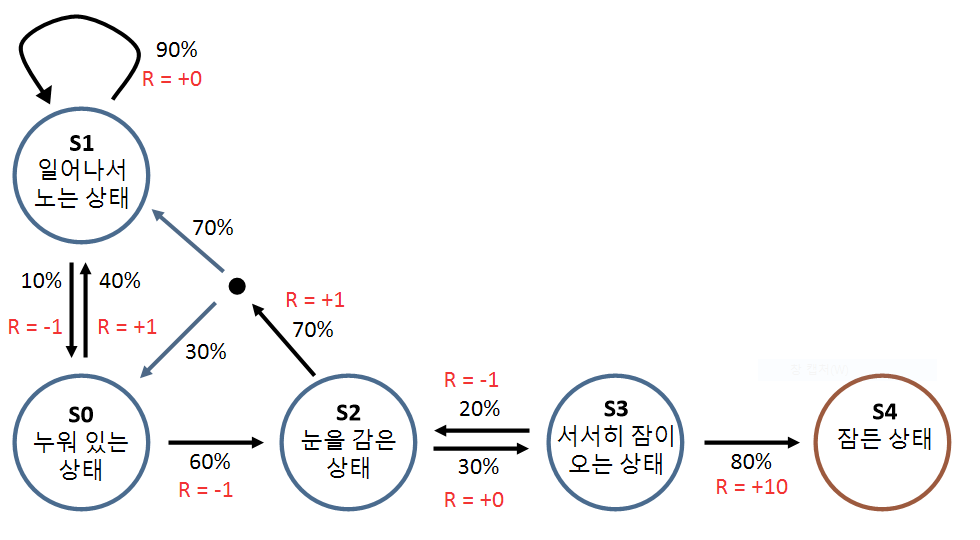
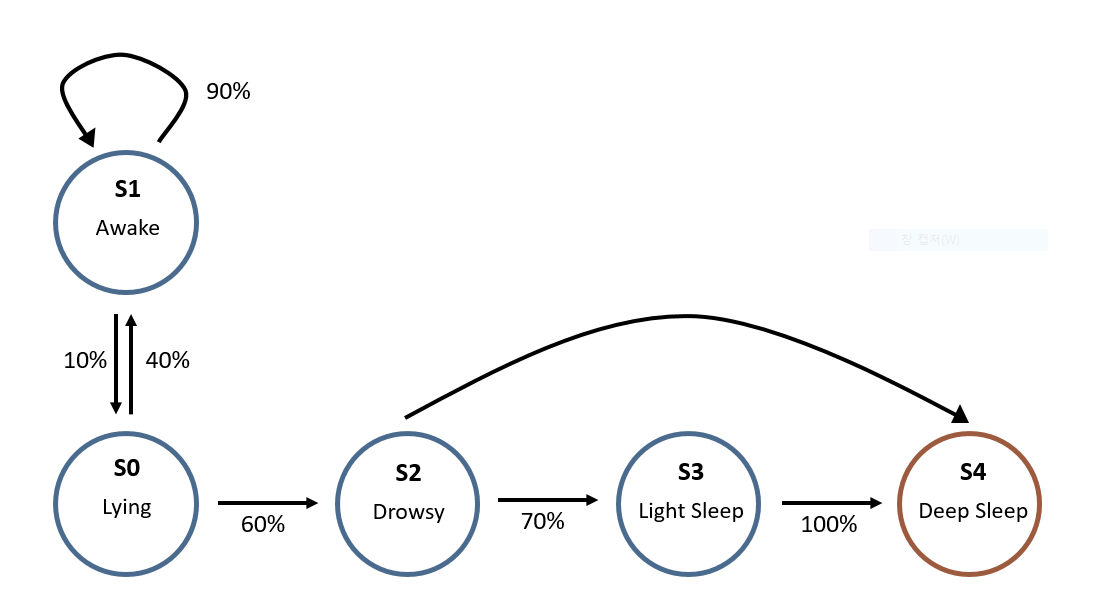
Update: mdp contents

diff --git a/rlboard/play_mdp_action.js b/rlboard/play_mdp_action.js
@@ -1,5 +1,5 @@
 import { animate } from "./game.js";
-import { MDP } from "./mdp.js";
+import { Edge, MDP } from "./mdp.js";
 
 const frame = document.querySelector('#play_mdp_action');
 
@@ -11,27 +11,55 @@ frame.insertBefore(canvas, frame.firstChild);
 const context = canvas.getContext('2d');
 context.width = canvas.width;
 context.height = canvas.height;
+canvas.onclick = (ev) => {
+    let bounds = canvas.getBoundingClientRect();
+    let mouseX = (ev.clientX / bounds.width) * canvas.width - bounds.x;
+    let mouseY = (ev.clientY / bounds.height) * canvas.height - bounds.y;
+    console.log(mouseX, mouseY);
+};
 
 class MDP_Action extends MDP {
+    constructor(context) {
+        super(context);
+
+        this.DUMMY_IDX = 9;
+
+        this.edges = [
+            new Edge(0, 2, 0.6, -1),
+            new Edge(0, 1, 0.4, +1),
+
+            new Edge(1, 0, 0.1, -1),
+            new Edge(1, 1, 0.9, +0),
+
+            new Edge(2, 3, 0.3, +0),
+            new Edge(2, this.DUMMY_IDX, 0.7, +1),  // to dummy node
+
+            new Edge(3, this.END_IDX, 0.8, +10),
+            new Edge(3, 2, 0.2, -1),
+        ];
+
+        this.positions[this.DUMMY_IDX] = [240, 235];
+    }
+
     render() {
         // draw background image
         let img = new Image();
         img.src = "img/mdp/action.png"
-        this.context.drawImage(img, 8, 50);
+        this.context.drawImage(img, 50, 10, this.context.width * 0.9, this.context.height);
 
         // draw title text
         this.context.fillStyle = "#e7326b";
-        this.context.font = "bold 30pt Arial";
-        this.context.fillText("아이 재우기 MDP", 40, 60);
+        this.context.font = "bold 20pt Arial";
+        this.context.fillText("MDP for Improving child’s sleep quality", 40, 20);
 
         // draw current position
         this.context.beginPath();
         this.context.strokeStyle = "#eeb540";
         let radius;
         if (this.currentIdx === this.DUMMY_IDX) {
-            radius = 10;
+            radius = 8;
         } else {
-            radius = 70;
+            radius = 50;
         }
         let currentPos = this.positions[this.currentIdx];
         this.context.arc(currentPos[0], currentPos[1], radius, 0, 2 * Math.PI);

diff --git a/rlboard/mdp.js b/rlboard/mdp.js
@@ -19,7 +19,7 @@ function weightedRandom(edges) {
 }
 
 
-class Edge {
+export class Edge {
     constructor(fromIdx, toIdx, prob, reward) {
         this.fromIdx = fromIdx;
         this.toIdx = toIdx;
@@ -33,29 +33,27 @@ export class MDP {
         this.context = context;
 
         this.END_IDX = 4;
-        this.DUMMY_IDX = 9;
 
         this.edges = [
-            new Edge(0, 2, 0.6, -1),
-            new Edge(0, 1, 0.4, +1),
+            new Edge(0, 2, 0.6, 0),
+            new Edge(0, 1, 0.4, 0),
 
-            new Edge(1, 0, 0.1, -1),
-            new Edge(1, 1, 0.9, +0),
+            new Edge(1, 0, 0.1, 0),
+            new Edge(1, 1, 0.9, 0),
 
-            new Edge(2, 3, 0.3, +0),
-            new Edge(2, this.DUMMY_IDX, 0.7, +1),  // to dummy node
+            new Edge(2, 3, 0.7, 0),
+            new Edge(2, this.END_IDX, 0.3, 0),
 
-            new Edge(3, this.END_IDX, 0.8, +10),
-            new Edge(3, 2, 0.2, -1),
+            new Edge(3, this.END_IDX, 1.0, 0),
         ];
         this.positions = {
-            0: [89, 492],
-            1: [89, 225],
-            2: [356, 492],
-            3: [623, 492],
-            4: [890, 492],
+            0: [132, 346],
+            1: [132, 158],
+            2: [316, 346],
+            3: [500, 346],
+            4: [684, 346],
         };
-        this.positions[this.DUMMY_IDX] = [245, 336];
+
         this.initIdx = 0;
 
         this.reset();
@@ -63,7 +61,7 @@ export class MDP {
 
     async step(action=null) {
         if (this.currentIdx === this.END_IDX) {
-            console.log("Done. Reset, please");
+            alert("Episode is done.\nYou have to reset before playing.");
             return;
         }
 

diff --git a/rlboard/play_mdp_transition.js b/rlboard/play_mdp_transition.js
@@ -17,21 +17,21 @@ class MDP_Transition extends MDP {
         // draw background image
         let img = new Image();
         img.src = "img/mdp/transition.png"
-        this.context.drawImage(img, 8, 50);
+        this.context.drawImage(img, 50, 10, this.context.width * 0.9, this.context.height);
 
         // draw title text
         this.context.fillStyle = "#e7326b";
-        this.context.font = "bold 30pt Arial";
-        this.context.fillText("아이 재우기 MDP", 40, 60);
+        this.context.font = "bold 20pt Arial";
+        this.context.fillText("Markov Process for child’s sleep pattern", 40, 20);
 
         // draw current position
         this.context.beginPath();
         this.context.strokeStyle = "#eeb540";
         let radius;
         if (this.currentIdx === this.DUMMY_IDX) {
-            radius = 10;
+            radius = 8;
         } else {
-            radius = 70;
+            radius = 50;
         }
         let currentPos = this.positions[this.currentIdx];
         this.context.arc(currentPos[0], currentPos[1], radius, 0, 2 * Math.PI);

diff --git a/index.html b/index.html
@@ -251,7 +251,7 @@
             </div>
 
             <div id="play_mdp_transition" class="play_div">
-              <canvas width="1000px" height="600px"></canvas>
+              <canvas width="800px" height="400px"></canvas>
               <button class="btn_transition" style="display: block; margin: auto">Transition</button>
               <button class="btn_reset" style="display: block; margin: auto">Reset</button>
               <script type="module" src="rlboard/play_mdp_transition.js"></script>
@@ -317,7 +317,7 @@
             </div>
 
             <div id="play_mdp_action" class="play_div">
-              <canvas width="1000px" height="600px"></canvas>
+              <canvas width="800px" height="400px"></canvas>
               <button class="btn_action_0" style="display: block; margin: auto">Action 0</button>
               <button class="btn_action_1" style="display: block; margin: auto">Action 1</button>
               <button class="btn_reset" style="display: block; margin: auto">Reset</button>
